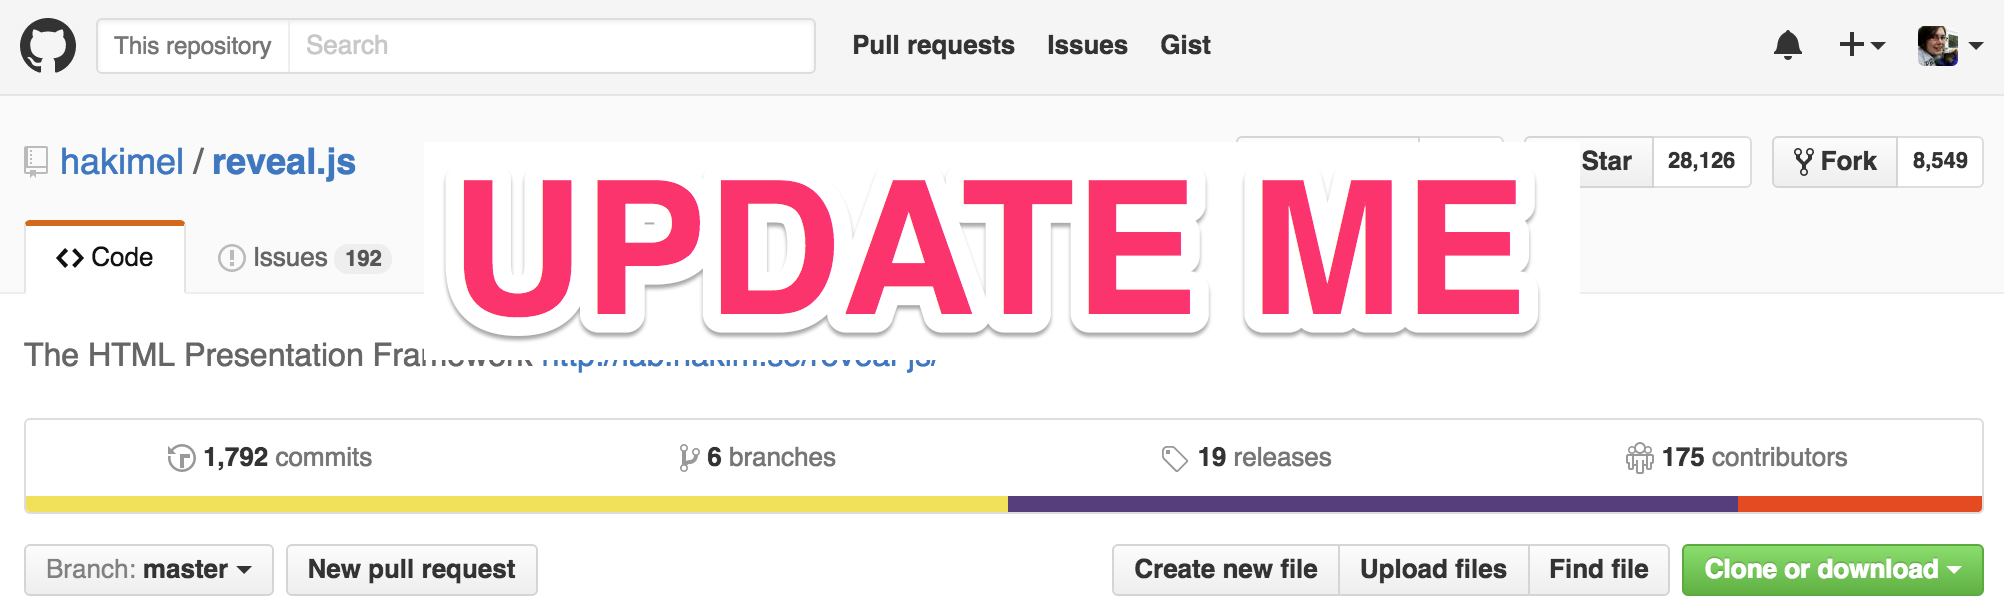
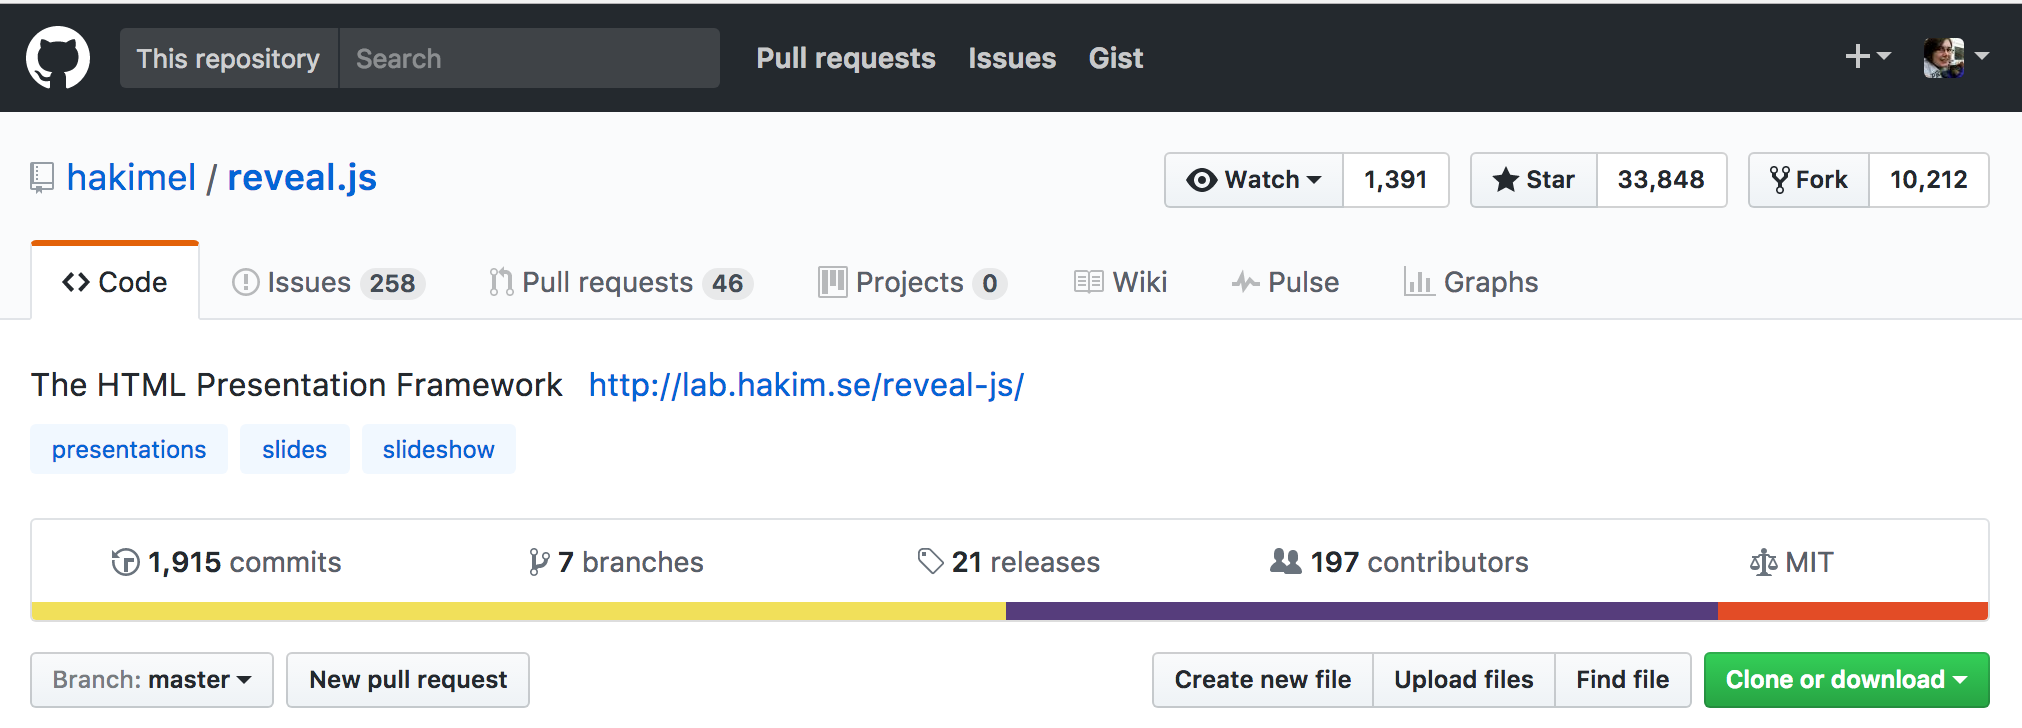
\o/

diff --git a/2017_05_CLS/slides.md b/2017_05_CLS/slides.md
@@ -524,24 +524,24 @@ Note: Looking at any github project page we can see all the contributors right?
 
 
 ---
- <div style='margin: 0 auto;'><p align='center'><img src='pictures/reveal_header_h.png'></p></div>  <!-- .slide: class="center" -->
+ <div style='margin: 0 auto;'><p align='center'><img src='pictures/reveal_header_e.png'></p></div>  <!-- .slide: class="center" -->
 
 Note: ttere's a button right at the top and everything
 
 ---
 
- <div style='margin: 0 auto;'><p align='center'><img src='pictures/reveal_12.png'></p></div>  <!-- .slide: class="center" -->
+ <div style='margin: 0 auto;'><p align='center'><img src='pictures/reveal_contrib_top.png'></p></div>  <!-- .slide: class="center" -->
 
 Note: But if we click it, then we don't actually get the contributors
 
 We get the top ones, with a graph, ranked by lines of code
 
 ---
- <div style='margin: 0 auto;'><p align='center'><img src='pictures/reveal_12_h.png'></p></div>  <!-- .slide: class="center" -->
+ <div style='margin: 0 auto;'><p align='center'><img src='pictures/reveal_contrib_top_e.png'></p></div>  <!-- .slide: class="center" -->
 ---
- <div style='margin: 0 auto;'><p align='center'><img src='pictures/reveal_100.png'></p></div>  <!-- .slide: class="center" -->
+ <div style='margin: 0 auto;'><p align='center'><img src='pictures/reveal_contrib_bottom.png'></p></div>  <!-- .slide: class="center" -->
 ---
- <div style='margin: 0 auto;'><p align='center'><img src='pictures/reveal_100_h.png'></p></div>  <!-- .slide: class="center" -->
+ <div style='margin: 0 auto;'><p align='center'><img src='pictures/reveal_contrib_bottom_e.png'></p></div>  <!-- .slide: class="center" -->
 
 Note: And it's only the top 100
 
@@ -589,8 +589,8 @@ Note: introducing octohatrack
 ---
 
 # hakimel/reveal.js <!-- .slide: class="center" -->
-## GitHub Contributors: UPDATEME <!-- .element: class="fragment" -->
-## All Contributors: UPDATEME <!-- .element: class="fragment" -->
+## GitHub Contributors: 197 <!-- .element: class="fragment" -->
+## All Contributors: 1741 <!-- .element: class="fragment" -->
 
 ---
 
@@ -620,13 +620,6 @@ Python HTTP Requests for Humans
 
 Note: So many conversions!
 
-
----
-
- <div style='width: 50%; margin: 0 auto;'><p align='center'><img height='400px' src='pictures/claps.svg'></p></div> <!-- .slide: class="center" -->
-
----
- <img src="pictures/jshatrack.png" style="margin-top: -50px" />
 ---
 
 # TL;DR: <!-- .slide: class="center" -->
